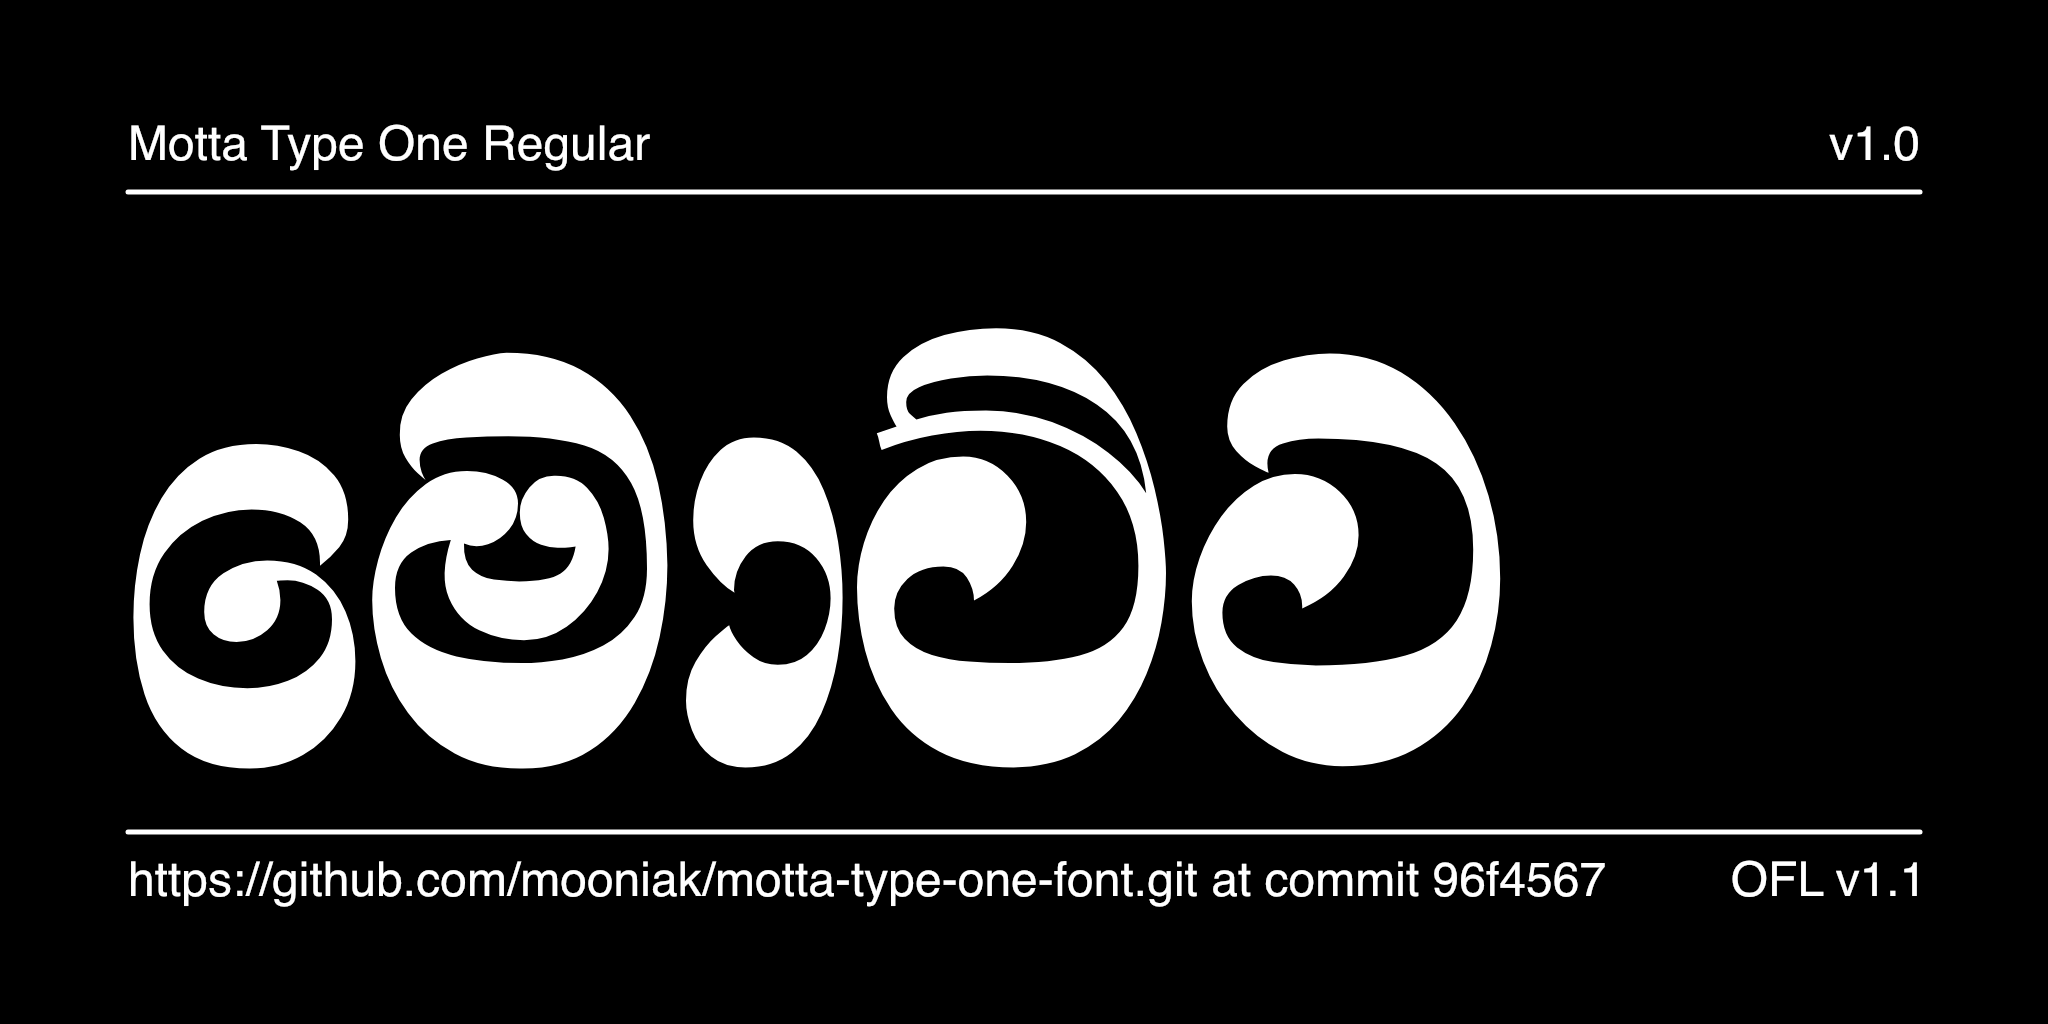
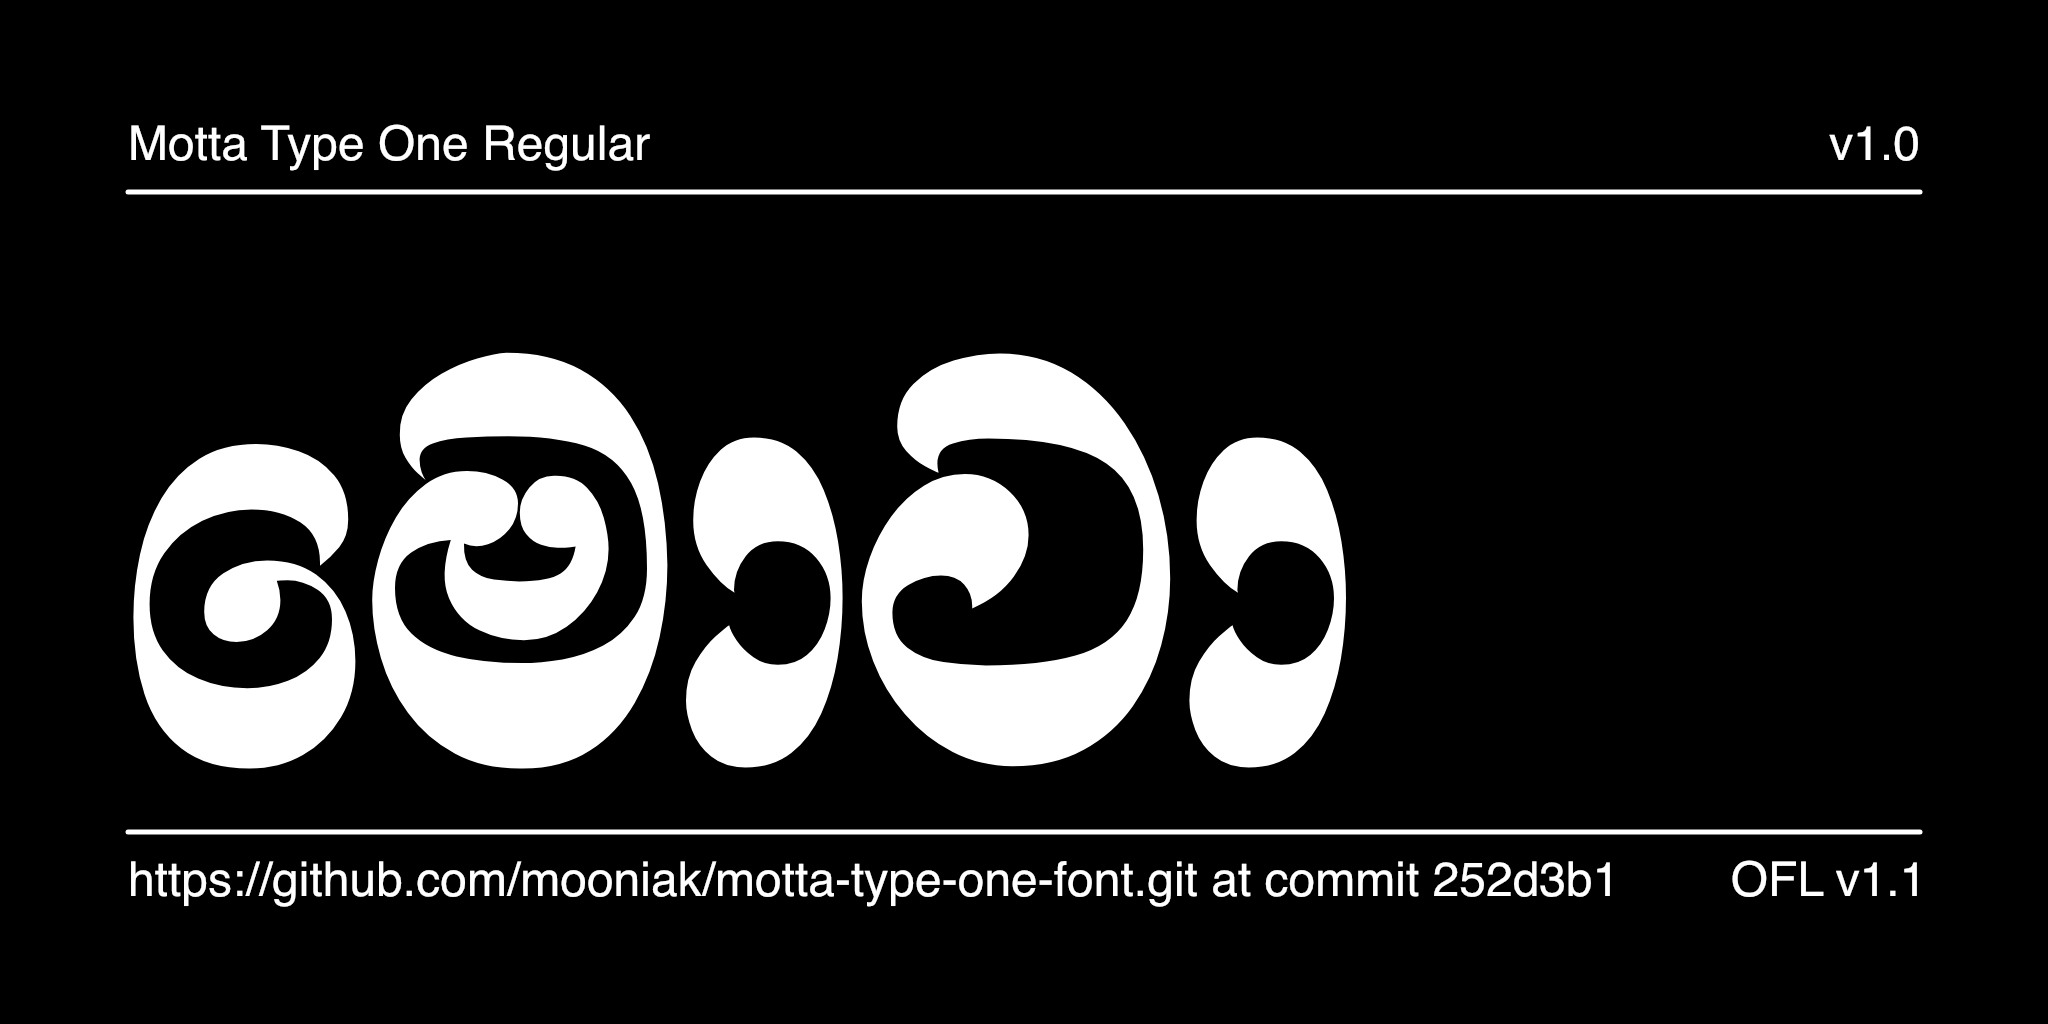
History of Motta Type in the README (English + Sinhala), README.si.md, descriptions
The font revives Motta Type, the headline letters Motagedara Wanigaratne designed for the
Aththa newspaper in the 1960s; Damith Welikala made the font in 2020.

- README.md: new intro, a History section (English translation + the Sinhala original),
  credits for the original letter design, link to README.si.md
- README.si.md: the Sinhala text, with download and licence links
- fontpackage.json description, documentation/ARTICLE.en_us.html and the font's own
  description (name ID 10, new 'descriptions' property in the source) updated
- removes the earlier, wrong explanation of the name ('motta = blunt'); the specimen now
  shows මොටා instead of මොට්ට

diff --git a/documentation/ARTICLE.en_us.html b/documentation/ARTICLE.en_us.html
@@ -1,13 +1,19 @@
 <p>
-    Motta Type One is a heavy, rounded Sinhala display typeface designed by Damith Welikala and
-    published by Mooniak. <em>Motta</em> (මොට්ට) means blunt: the letters are drawn with thick,
-    soft-ended strokes, small counters and almost no contrast, so words read as dark, friendly
-    shapes at large sizes. It suits headlines, posters, signage, packaging and titles.
+    Motta Type One is a Sinhala headline typeface, Damith Welikala's 2020 revival of Motta Type:
+    the letters Motagedara Wanigaratne designed for the <em>Aththa</em> newspaper in the 1960s.
+    For nearly half a century they shaped the main headline on <em>Aththa</em>'s front page, and
+    in their day they were a very popular letter design.
 </p>
 <p>
-    The font covers the Sinhala alphabet with its vowel signs, the common rakar and yansaya
-    forms, consonant + vowel-sign ligatures and touching conjuncts, plus digits and basic
-    punctuation. It comes in a single Regular weight.
+    The letters carry extra weight on their top and bottom edges, and their terminals are drawn
+    from old Sinhala carving patterns. Several kinds of vowel signs are used depending on the
+    letter, and ka, ta and na have their own i-sign. As digital typography spread in Sri Lanka,
+    many metal-type designs fell out of use, Motta Type among them; this font brings it back.
+</p>
+<p>
+    The font covers the Sinhala alphabet with its vowel signs, rakar and yansaya forms,
+    consonant + vowel-sign ligatures and touching conjuncts, plus digits and basic punctuation,
+    in a single Regular weight.
 </p>
 <p>
     To contribute, see <a href="https://github.com/mooniak/motta-type-one-font">github.com/mooniak/motta-type-one-font</a>.

diff --git a/documentation/image1.py b/documentation/image1.py
@@ -22,7 +22,7 @@ FONT_LICENSE = "OFL v1.1"
 AUXILIARY_FONT = "Helvetica"
 AUXILIARY_FONT_SIZE = 48
 
-BIG_TEXT = "මොට්ට"
+BIG_TEXT = "මොටා"
 BIG_TEXT_FONT_SIZE = 600
 BIG_TEXT_SIDE_MARGIN = MARGIN * 1
 BIG_TEXT_BOTTOM_MARGIN = MARGIN * 2

diff --git a/README.md b/README.md
@@ -1,5 +1,7 @@
-මොට්ට ටයිප් වන් / Motta Type One
+මොටා ටයිප් 1 / Motta Type One
 ==============
+
+[සිංහලෙන් කියවන්න / Read in Sinhala](README.si.md)
 
 [![Build][badge-build]][link-build]
 [![Fontspector QA][badge-qa]][link-qa]
@@ -15,15 +17,36 @@
 [link-release]: https://github.com/mooniak/motta-type-one-font/releases
 [link-license]: OFL.txt
 
-Motta Type One is a heavy, rounded Sinhala display typeface designed by Damith Welikala and
-published by [Mooniak](https://mooniak.com/) as a free font under the SIL Open Font License.
-
-*Motta* (මොට්ට) means blunt. The letters are built from thick, soft-ended strokes with small
-counters and almost no contrast, so they hold together as dark, friendly shapes at large sizes:
-headlines, posters, signage, packaging and titles. It is a single Regular weight.
+Motta Type One is a Sinhala headline typeface: Damith Welikala's 2020 revival of the Motta
+Type letters that Motagedara Wanigaratne designed for the *Aththa* newspaper in the 1960s. It is
+published by [Mooniak](https://mooniak.com/) as a free font under the SIL Open Font License, in
+a single Regular weight, for headlines, posters, signage and titles.
 
 ![Motta Type One specimen](documentation/image1.png)
 ![Motta Type One character set](documentation/image2.png)
+
+## History
+
+This font is based on a design chosen from the Motta Type collection of letter designs,
+created in the 1960s by Motagedara Wanigaratne for the *Aththa* (ඇත්ත) newspaper. For nearly
+half a century it shaped the main headline on *Aththa*'s front page, and in its day it was a
+very popular letter design.
+
+Its distinctive features are the extra weight given to the top and bottom edges of the
+letters, and terminals drawn from old Sinhala carving patterns. Several kinds of vowel signs
+(*pili*) are used depending on the character of each letter, and ka, ta and na (ක, ත, න) have
+their own ispilla (i-sign). As digital typography spread in Sri Lanka, many old metal-type
+designs fell out of use, and the Motta Type collection was among them.
+
+In 2020, type designer Damith Welikala recreated the design as a font, named Motta Type 1.
+
+### සිංහලෙන්
+
+ඇත්ත පුවත්පත වෙනුවෙන් 1960 දශකයේදී මොටාගෙදර වනිගරත්න සූරින් විසින් නිර්මාණය කරන ලද මොටා ටයිප් අකුරු මෝස්තර එකතුවෙන් තෝරාගත් මෝස්තරයක් ඇසුරින් මෙම ෆොනුරුව සකස් කොට ඇත. අඩසියවසකට ආසන්න කාලයක් පුරා ඇත්ත පුවත්පතේ මුල් පිටුවේ ප්රධාන සිරස්තලය හැඩ කරන්නට යොදා ගත් මෙම අකුරු මොස්තරය එවක ඉතාමත් ජනප්රියත්වයට පත්ව තිබූ අකුරු මෝස්තරයක් විය.
+
+අක්ෂරවල ඉහළ සහ පහළ දාර වැඩි ගණකමකින් යුතුව නිර්මාණය වී තිබීමත් අක්ෂරාන්ත (Typographic terminals) සඳහා පැරණි සිංහල කැටයම් රටා භාවිත කොට තිබීමත් මෙහි ඇති විශේෂත්වයයි. අක්ෂරයේ ස්වභාවය අනුව පිලි වර්ග කිහිපයක් භාවිතා කොට ඇති අතර ක,ත,න අක්ෂර 3 සඳහා වෙනම ඉස්පිල්ලක් භාවිත වී තිබීමද විශේෂත්වයකි. පරිගණක අක්ෂර කලාව මෙරට ප්රචලිත වීමත් සමඟ පැරණි අච්චු අකුරු මෝස්තර රැසක්ම භාවිතයෙන් ඉවත් වූ අතර මොටා ටයිප් අකුරු මෝස්තර එකතුව ද ඒ අතර විය.
+
+අක්ෂර නිර්මාණ ශිල්පී දමිත් වැලිකල විසින් 2020 වසරේ දී Motta Type 1 නමින් මෙම අකුරු මෝස්තරය ෆොනුරුවක් ලෙස ප්රතිනිර්මාණය කරන ලද.
 
 ## Get the font
 
@@ -188,7 +211,8 @@ against `dev`, make changes in `sources/MottaTypeOne.glyphspackage` with Glyphs 
 
 ## Credits
 
-- **Design:** Damith Welikala (2020)
+- **Original letter design:** Motagedara Wanigaratne, Motta Type, for the *Aththa* newspaper (1960s)
+- **Font design:** Damith Welikala (2020)
 - **Production and publishing:** [Mooniak](https://mooniak.com/)
 
 ## Changelog
@@ -203,7 +227,7 @@ against `dev`, make changes in `sources/MottaTypeOne.glyphspackage` with Glyphs 
 - Added no-break space and dotted circle; Google Fonts vertical metrics (line height 1.2 em);
   Mooniak copyright, designer, vendor ID and OFL licence in the font.
 
-**2020, version 1.000.** Original design by Damith Welikala, made in FontForge.
+**2020, version 1.000.** Damith Welikala's revival of Motta Type, made in FontForge.
 
 ## License
 

diff --git a/README.si.md b/README.si.md
@@ -1,0 +1,22 @@
+මොටා ටයිප් 1 / Motta Type One
+==============
+
+[Read in English](README.md)
+
+[![Build](https://github.com/mooniak/motta-type-one-font/actions/workflows/build.yaml/badge.svg?branch=dev)](https://github.com/mooniak/motta-type-one-font/actions/workflows/build.yaml)
+[![License: OFL 1.1](https://img.shields.io/badge/license-OFL--1.1-green)](OFL.txt)
+
+ඇත්ත පුවත්පත වෙනුවෙන් 1960 දශකයේදී මොටාගෙදර වනිගරත්න සූරින් විසින් නිර්මාණය කරන ලද මොටා ටයිප් අකුරු මෝස්තර එකතුවෙන් තෝරාගත් මෝස්තරයක් ඇසුරින් මෙම ෆොනුරුව සකස් කොට ඇත. අඩසියවසකට ආසන්න කාලයක් පුරා ඇත්ත පුවත්පතේ මුල් පිටුවේ ප්රධාන සිරස්තලය හැඩ කරන්නට යොදා ගත් මෙම අකුරු මොස්තරය එවක ඉතාමත් ජනප්රියත්වයට පත්ව තිබූ අකුරු මෝස්තරයක් විය.
+
+අක්ෂරවල ඉහළ සහ පහළ දාර වැඩි ගණකමකින් යුතුව නිර්මාණය වී තිබීමත් අක්ෂරාන්ත (Typographic terminals) සඳහා පැරණි සිංහල කැටයම් රටා භාවිත කොට තිබීමත් මෙහි ඇති විශේෂත්වයයි. අක්ෂරයේ ස්වභාවය අනුව පිලි වර්ග කිහිපයක් භාවිතා කොට ඇති අතර ක,ත,න අක්ෂර 3 සඳහා වෙනම ඉස්පිල්ලක් භාවිත වී තිබීමද විශේෂත්වයකි. පරිගණක අක්ෂර කලාව මෙරට ප්රචලිත වීමත් සමඟ පැරණි අච්චු අකුරු මෝස්තර රැසක්ම භාවිතයෙන් ඉවත් වූ අතර මොටා ටයිප් අකුරු මෝස්තර එකතුව ද ඒ අතර විය.
+
+අක්ෂර නිර්මාණ ශිල්පී දමිත් වැලිකල විසින් 2020 වසරේ දී Motta Type 1 නමින් මෙම අකුරු මෝස්තරය ෆොනුරුවක් ලෙස ප්රතිනිර්මාණය කරන ලද.
+
+![Motta Type One](documentation/image1.png)
+![Motta Type One](documentation/image2.png)
+
+- **බාගත කිරීම:** [Releases](https://github.com/mooniak/motta-type-one-font/releases)
+- **බලපත්රය:** SIL Open Font License 1.1 ([OFL.txt](OFL.txt))
+- **ප්රකාශනය:** [Mooniak](https://mooniak.com/)
+
+තාක්ෂණික තොරතුරු සහ ගොඩනැගීමේ උපදෙස් සඳහා [ඉංග්රීසි README](README.md) බලන්න.
